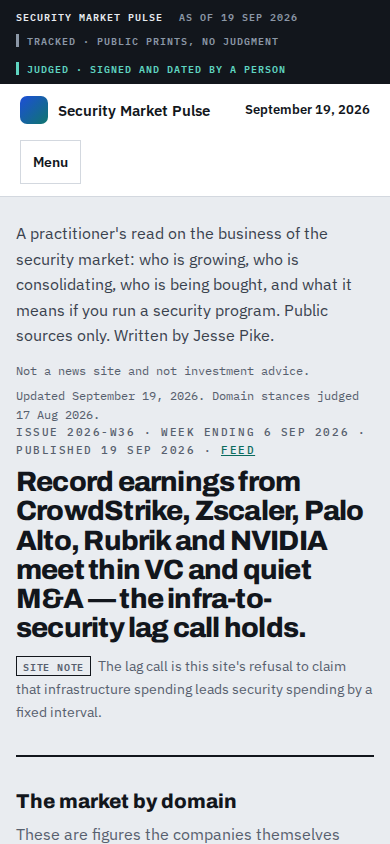
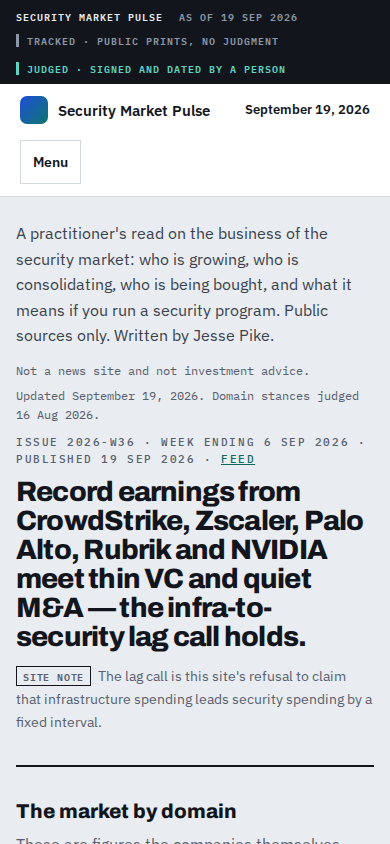
docs(fable-run): wave 1 fix-pass evidence
Claude-Session: https://claude.ai/code/session_01AdcpLzcT3PoSBWQ7nuRLAT

Changed region(s): [[0.0308, 0.4929, 0.9538, 0.8626], [0.0308, 0.8934, 0.9538, 1.0], [0.6769, 0.4929, 0.8923, 0.5545]]

diff --git a/docs/active/fable-run/evidence/wave1/build-report.md b/docs/active/fable-run/evidence/wave1/build-report.md
@@ -1,6 +1,51 @@
 # T6-2 build report — front-page redesign, step A, wave 1
 
-Branch `mon/wave1`, built from a worktree at `/Users/jessepike/code/projects/sec-market-wt/wave1`, off `preview`. Not merged anywhere. Last commit: `ca2e529 feat(web): add machine-surface links per agent-surface-spec section 6`.
+Branch `mon/wave1`, built from a worktree at `/Users/jessepike/code/projects/sec-market-wt/wave1`, off `preview`. Not merged anywhere. Original build's last commit: `ca2e529 feat(web): add machine-surface links per agent-surface-spec section 6`. A fix pass (T6-7) landed after this report was first written — see that section below for what changed and the branch's current last commit.
+
+## Fix pass T6-7
+
+Four small visual fixes from the coordinator's review of the wave 1 renders, applied on top of the build described below. No new features, no data changes.
+
+1. **Growth figures were colour-coded green/high, red/low in MarketPicture**, which visually ranks suppliers right under a caption that says they are labelled and not ranked, and the figures aren't like for like across vendors. Removed the tone-based colour class from `MarketPicture.tsx` (`market-picture__vendor-value--up`/`--down`) so every figure renders in the same neutral ink colour, same weight and size as before. `PrintGrid`'s scorecard uses its own separate `print-card__value--*` classes and was not touched, confirmed by grep before making the change. The two now-unused CSS rules (`.market-picture__vendor-value--up`, `--down`) were left in `web/src/index.css` rather than deleted, per this fix pass's own instruction not to delete a CSS rule; they're simply unreferenced now.
+2. **The domain grid was four columns at 1440**, leaving two orphan cards on their own row, and `align-items` defaulted to `stretch`, so short cards (Cloud Security, Identity, with only one or two vendors) stretched to match the tallest card in their row, leaving large empty white space. Changed `.market-picture__domains` to one column below 700px, two columns from 700px, three columns from 1100px (two even rows of three for the six domains, no orphan), and added `align-items: start` so each card sizes to its own content. Confirmed by screenshot at 390, 800, and 1440 that no card stretches and the three-column layout has no orphan row.
+3. **The as-of line sat flush against the issue-meta line with no gap**, because `.issue-hero__asof` had no bottom margin and the shared `.eyebrow` class has zero margin everywhere it's reused. Added `margin-bottom: 0.6rem` (about 10px) scoped to `.issue-hero__asof` alone, so nothing else that reuses `.eyebrow` elsewhere on the site is affected. Confirmed by screenshot that the two lines read as two lines at both widths.
+4. **The as-of line mentioned domain stances but rendered on the issue permalink too**, where no domains appear. Added a `showAsOf` prop to `IssueHero` (default `false`); the front page passes `showAsOf`, the permalink page does not, so the description and disclaimer lines still appear on both pages but the as-of line now appears on the front page only. Confirmed by screenshot of `/issues/2026-w36/` that the as-of line is gone while the description and disclaimer remain.
+
+   On the date question: it was a mistake, not a deliberate "latest across domains, platforms, and hypotheses" computation. The as-of line was reading `JUDGED_AS_OF_ISO` from `meta.ts`, a constant whose own doc comment says it covers the tracked hypotheses and platform-pressure reads specifically — not domains — and which happens to hold a different date (17 Aug 2026) than the domain cards (`domain.asOf`, all six of which are `2026-08-16`). I used the wrong constant when I first wrote this line. Fixed by sourcing the date directly from `securityDomains` (the same data `MarketPicture`'s cards read), computed as the latest `asOf` across all domains, so the line can never drift from what the cards say. It now reads "Domain stances judged 16 Aug 2026," matching the cards, and `JUDGED_AS_OF_ISO` remains correctly in use by `hypotheses.ts` and `platformPressure.ts`, which is what it was always for.
+
+### Assertion changes in the fix pass
+
+None. No test's expected behavior was changed. `IssueHero`'s new `showAsOf` prop is additive (defaults to `false`, matching the permalink's existing unchanged call site); the front page's call site was the only one updated.
+
+### Retest and recapture
+
+Killed a leftover `vite preview` process before testing this time (none was actually running, confirmed via `ss -ltnp | grep 4173` before starting). Full `npm test` passed clean: lint (0 warnings, 0 errors), 67 data tests, the full build with all 8 verify:dist checks, and 26 e2e tests (25 passed, 1 skipped). Tail:
+
+```
+> web@0.0.0 test:e2e
+> playwright test
+
+Running 26 tests using 5 workers
+1 skipped
+25 passed (9.8s)
+```
+
+Recaptured all 12 required screenshots, the market and follow crops, DOM measurements, and the axe scan; overwrote the originals in this folder. New measurements:
+
+| | 1440px | 390px |
+|---|---|---|
+| `#market` top | 514 | 799 |
+| `#follow` top | 7144 | 10919 |
+| `#read` top | 14111 | 16570 |
+| `#we-think` top | 2234 | 3991 |
+| `.we-think__signature` top | 2711 | 5078 |
+| Header height | 53 | 113 |
+| `#overview` top | 113 | 221 |
+| Total page height | 17084 | 21437 |
+
+`#market`'s top moved from 505 to 514 at 1440 (and 789 to 799 at 390) — the small gap added under the as-of line pushes everything below it down by roughly the same amount; nothing else changed shape. Page height moved by single-digit pixels for the same reason. Axe: zero violations at all six page/width combinations, same as the original build.
+
+Nothing looked wrong in the new renders. The three-column grid has no orphan row and no stretched short cards at 1440; the two-column middle breakpoint (checked at 800px) shows the same non-stretching behavior; the single column at 390 is unaffected by the grid change since it was already one column. The neutral-colour growth figures read cleanly against the alphabetical, unranked framing the caption already states. The gap between the as-of line and the issue-meta line reads as two distinct lines at both widths. The permalink page shows the description and disclaimer but not the as-of line, and its layout is otherwise unaffected.
 
 ## What was built, file by file
 
